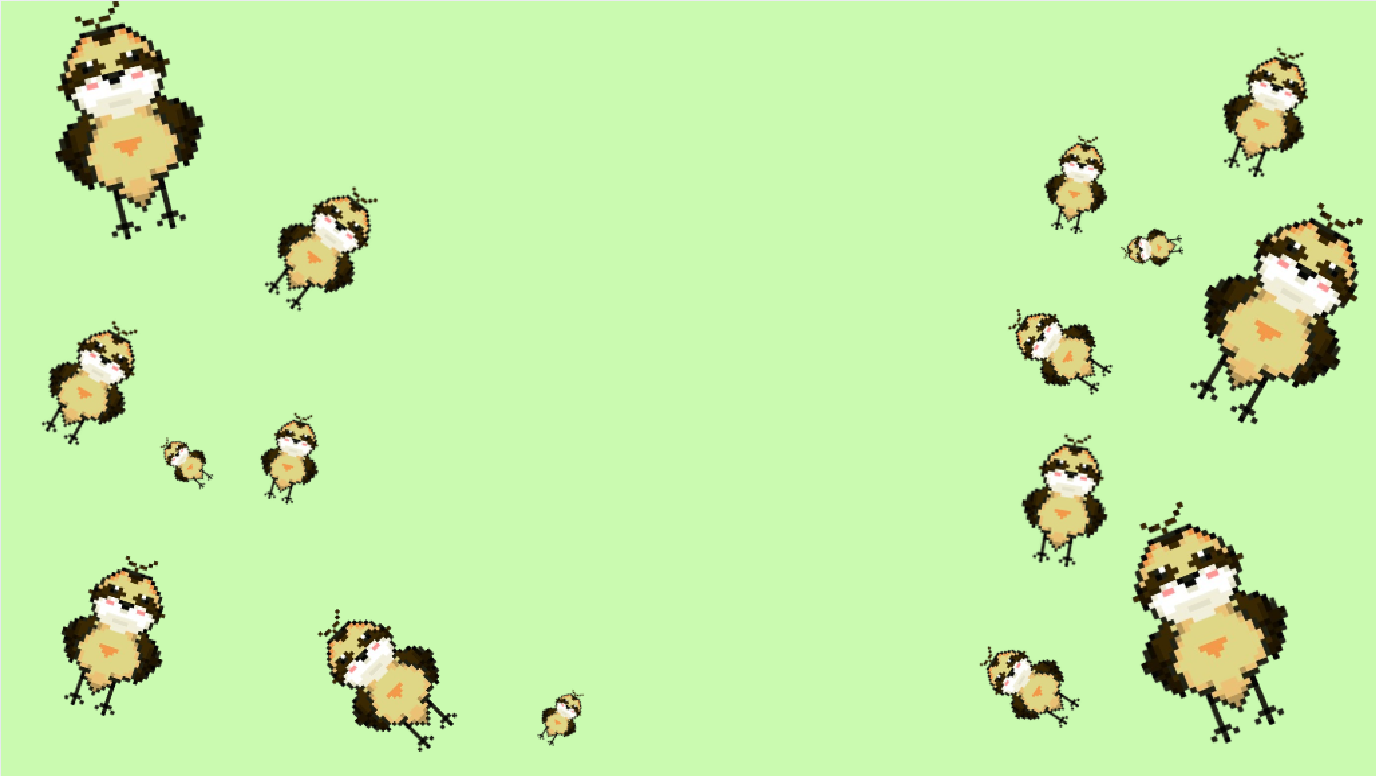
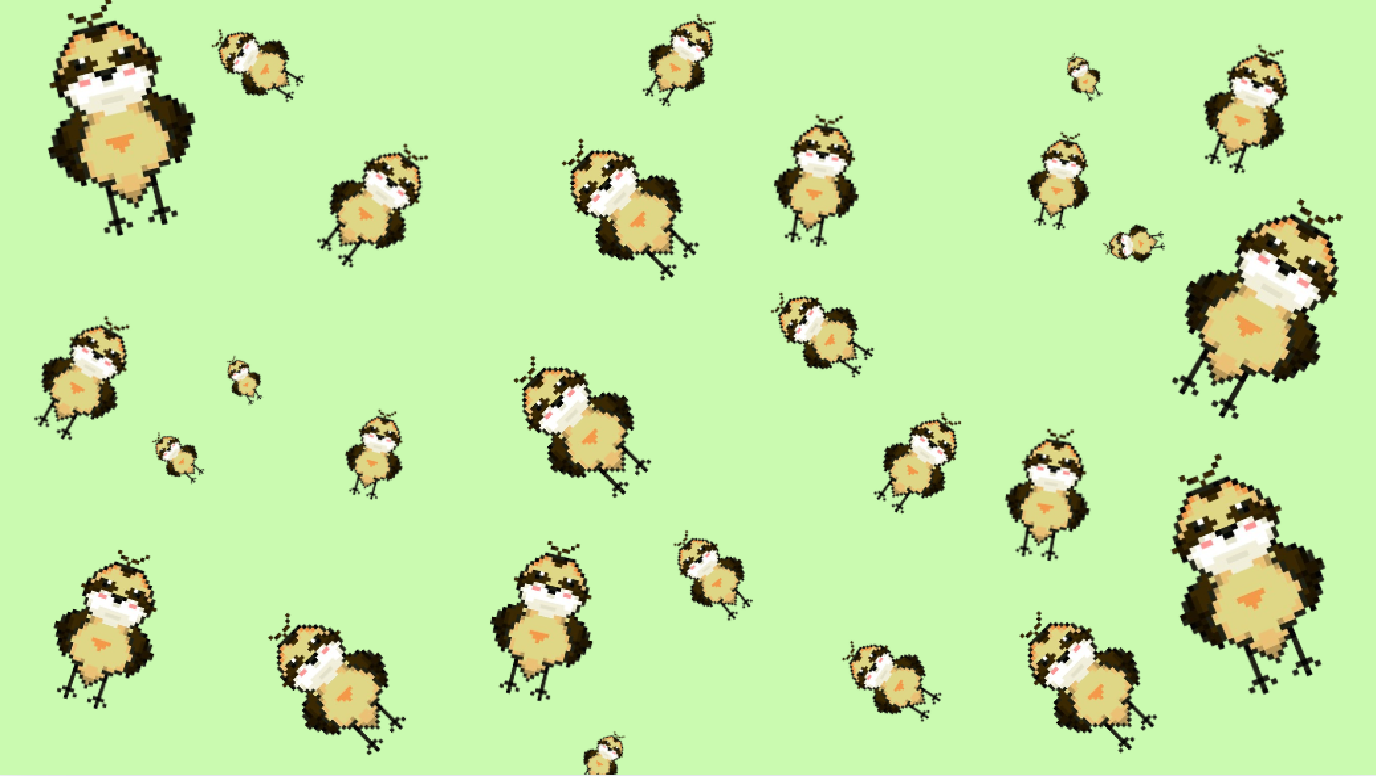
mudança na tela de login no fundo

diff --git a/public/static/js/mudarForm.js b/public/static/js/mudarForm.js
@@ -6,11 +6,18 @@ document.addEventListener('DOMContentLoaded', function () {
   const showLoginBtn = document.getElementById('show-login');
   const showCadastroBtn = document.getElementById('show-cadastro');
 
+  // Aplica o fundo inicial de cadastro
+  document.body.classList.add('cadastro-bg');
+
   showLoginBtn.addEventListener('click', function () {
     cadastroForm.style.display = 'none';
     cadastroTitle.style.display = 'none';
     loginForm.style.display = 'flex';
     loginTitle.style.display = 'flex';
+
+    // Muda o fundo para login
+    document.body.classList.remove('cadastro-bg');
+    document.body.classList.add('login-bg');
   });
 
   showCadastroBtn.addEventListener('click', function () {
@@ -18,5 +25,9 @@ document.addEventListener('DOMContentLoaded', function () {
     loginTitle.style.display = 'none';
     cadastroForm.style.display = 'flex';
     cadastroTitle.style.display = 'flex';
+
+    // Muda o fundo para cadastro
+    document.body.classList.remove('login-bg');
+    document.body.classList.add('cadastro-bg');
   });
 });

diff --git a/public/static/style.css b/public/static/style.css
@@ -6,6 +6,20 @@ body{
     font-family: 'Press Start 2P', monospace;
     background-image: url('img/fundo.png'); 
 }
+body.cadastro-bg {
+  background-image: url('img/fundo.png');
+  background-repeat: no-repeat;
+  background-size: cover;
+  background-position: center;
+}
+
+body.login-bg {
+  background-image: url('img/fundolog.png');
+  background-repeat: no-repeat;
+  background-size: cover;
+  background-position: center;
+  
+  }
 
 .container{
     display: flex;
